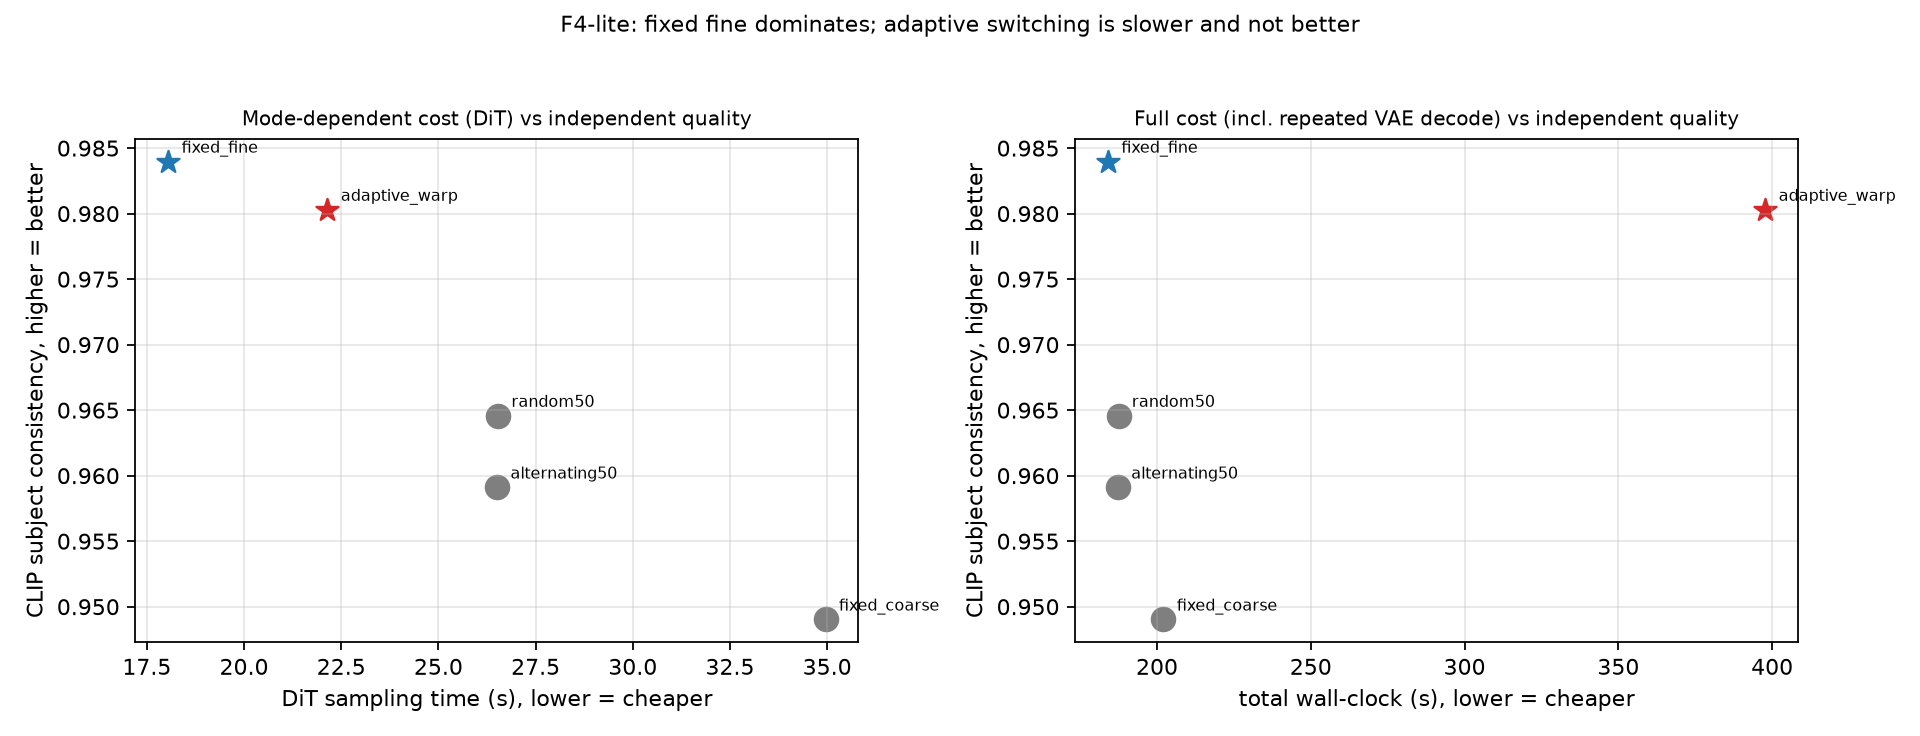
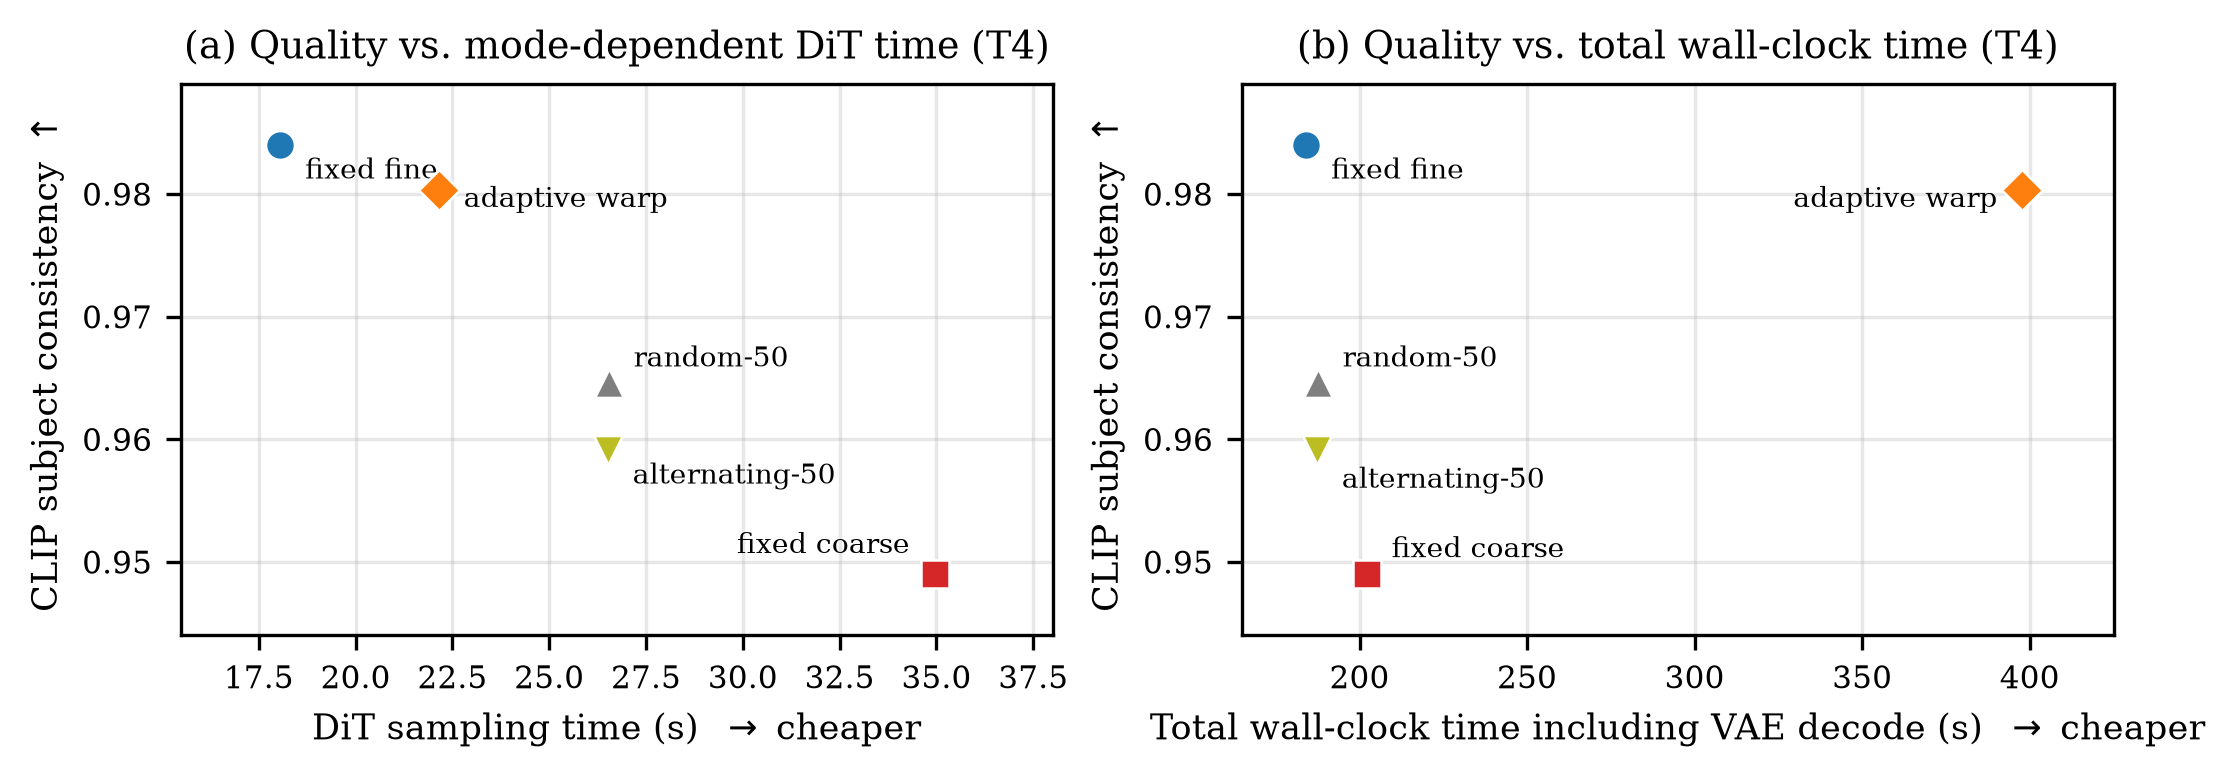
Use high-resolution figures in README; fix broken figure links

diff --git a/README.md b/README.md
@@ -10,7 +10,7 @@ Official code, locked protocols, calibration freezes, and audit artifacts for th
 
 **Links:**
 [GitHub repository](https://github.com/j1s4nn/jev-adaptive-granularity-WM) ·
-[Manuscript (PDF)](paper/Jev-Routed-Temporal-Granularity-with-Recovery-and-Hysteresis.pdf) ·
+[Manuscript (PDF)](mta_submission/main_v2.pdf) ·
 [DOI v1 (Zenodo)](https://doi.org/10.5281/zenodo.23395414) ·
 [DOI v2 (Zenodo)](https://doi.org/10.5281/zenodo.23984346) ·
 [Project page](https://j1s4nn.github.io/jev-adaptive-granularity-WM/) ·
@@ -103,7 +103,7 @@ For the one-step regimes used throughout (NFE 19 vs. 8.33), the break-even ratio
 
 For each segment, a feature state (prompt, BLIP caption of the pre-decision context frame, segment index, motion statistics) is sent to the **Jev** oracle, which returns typed difficulty, drift-risk, and motion-class outputs. The controller state (threshold, hysteresis band, recovery counter) maps these to an action in **{fine, coarse, hold}**, and the selected mode executes the next causal segment. Every decision is recorded with its generated frames, independent quality measures, timing, and switch-boundary cost; all measurements are prompt-paired, and the internal `c1-1` reference is diagnostic only.
 
-![System architecture](paper/figures/architecture.png)
+![System architecture](docs/assets/figures/architecture.png)
 
 Routing uses a two-threshold controller with a hysteresis band Λ around the operating point τ and a forced recovery window of R segments after a quality spike:
 
@@ -115,7 +115,7 @@ a_t =  fine         if  Ψ_t ≥ τ_high  or recovery active
 
 Thresholds are calibrated on a development split only. The Jev router uses a motion-class rule (static → hold, moderate → coarse, fast/scene_change → fine) with a difficulty gate (τ_Jev = 1.72).
 
-![Jev routing traces](paper/figures/fig_jev_routing.png)
+![Jev routing traces](docs/assets/figures/fig_jev_routing.png)
 
 *Per-segment decisions over eight T4 prompts (F = fine, C = coarse, H = hold). Traces are non-degenerate: static content is held, fast motion is routed to fine, moderate motion to coarse.*
 
@@ -127,7 +127,7 @@ Thresholds are calibrated on a development split only. The Jev router uses a mot
 
 Six-mode cost–quality sweep, T4 vs. A100-80GB. Fewer NFEs do not imply lower DiT time: on the T4 every coarse mode sits above and to the right of fine `c1-1` s1, while on the A100 the coarse family occupies a cheaper, less accurate frontier point.
 
-![Cost–quality Pareto on T4 and A100](paper/figures/fig_cost_pareto.png)
+![Cost–quality Pareto on T4 and A100](docs/assets/figures/fig_cost_pareto.png)
 
 | Mode | T4 DiT (s) | T4 NFE | T4 refL1 | A100 DiT (s) | A100 NFE | A100 refL1 |
 |---|---:|---:|---:|---:|---:|---:|
@@ -140,7 +140,7 @@ Six-mode cost–quality sweep, T4 vs. A100-80GB. Fewer NFEs do not imply lower D
 
 VAE decode falls from ≈156 s (T4) to ≈2.4 s (A100) and stops dominating the total. **The quality–cost trade-off exists on the A100 and is absent on the T4.**
 
-![Cost precondition across hardware](paper/figures/fig_hw_scaling.png)
+![Cost precondition across hardware](docs/assets/figures/fig_hw_scaling.png)
 
 *Rollout DiT latency (left) and the coarse/fine per-forward ratio against the 2.33 break-even point (right). The same model pair lies above break-even on the T4 and below it on the A100.*
 
@@ -157,7 +157,7 @@ VAE decode falls from ≈156 s (T4) to ≈2.4 s (A100) and stops dominating the 
 
 Held-out AUROC for predicting coarse-unsafe segments. The locked study scores 72 held-out cases (288 segments); the Jev audit uses 80 paired segments from 8 fresh prompts.
 
-![Signal discrimination](paper/figures/fig_auroc.png)
+![Signal discrimination](docs/assets/figures/fig_auroc.png)
 
 | Study | Signal | AUROC | 95% CI |
 |---|---|---:|---|
@@ -178,7 +178,7 @@ The preregistered hypothesis fails on locked data: the residual signal's held-ou
 
 Budgeted online policies on eight fresh T4 prompts (57 frames). With no real cost gap on the T4, fixed fine is best on both independent quality and cost; the adaptive warp policy gains only on the internal reference, costs **2.2×** the best fixed policy in total wall-clock, and makes **zero** within-video switches.
 
-![T4 online policy Pareto](paper/figures/f4lite_policy_pareto.png)
+![T4 online policy Pareto](docs/figures/f4lite_policy_pareto.png)
 
 | Policy | refL1 | DiT (s) | Total (s) | CLIP subj. | warp |
 |---|---:|---:|---:|---:|---:|
@@ -192,7 +192,7 @@ Budgeted online policies on eight fresh T4 prompts (57 frames). With no real cos
 
 Since the coarse mode is not cheaper on the T4, a genuinely cheap **hold** mode is added and routed with the motion-class rule. Routing "moderate" segments to coarse is counterproductive on this GPU, but holding static segments beats re-generating them.
 
-![Hold-mode study on the T4](paper/figures/jev_hold_mode.png)
+![Hold-mode study on the T4](docs/figures/jev_hold_mode.png)
 
 | Policy | hold | fine | coarse | refL1 | DiT (s) | Total (s) |
 |---|---:|---:|---:|---:|---:|---:|
@@ -209,7 +209,7 @@ Since the coarse mode is not cheaper on the T4, a genuinely cheap **hold** mode 
 
 On the A100 the cost gap is real, so the online test is informative. The adaptive warp policy passes the *internal* gate but the independent endpoint reverses the verdict, and its extra VAE decodes push total wall-clock above fixed fine. The Jev policies, queried in-loop, behave differently.
 
-![A100 online policies](paper/figures/fig_a100_online.png)
+![A100 online policies](docs/figures/fig_a100_online.png)
 
 | Policy | refL1 | DiT (s) | Total (s) | CLIP subj. | warp |
 |---|---:|---:|---:|---:|---:|
@@ -228,7 +228,7 @@ A second hazard appears on the A100 split: the internal reference flatters the *
 
 Switches are per rollout; AUH is area-under-horizon refL1 regret; seam/interior are adjacent-frame L₁ at switch boundaries and interior positions.
 
-![Controller ablation](paper/figures/fig_rq3.png)
+![Controller ablation](docs/assets/figures/fig_rq3.png)
 
 | GPU | Controller | switches | AUH | terminal | seam / interior |
 |---|---|---:|---:|---:|---|
@@ -247,7 +247,7 @@ Recovery plus hysteresis reduces switching without worsening regret: **0.50 → 
 
 The fine-versus-coarse benefit is monotone in the Jev difficulty signal on the T4 (Spearman ρ = −0.517) but non-monotone for the hand-crafted warp signal (ρ = −0.099), and flat on the A100 diagnostic split (ρ = +0.059, AUROC 0.451). The earlier non-monotonicity was a *signal-quality artifact*, not a property of the modes.
 
-![Fine-versus-coarse gap across signal terciles](paper/figures/fig_rq4.png)
+![Fine-versus-coarse gap across signal terciles](docs/figures/fig_rq4.png)
 
 | Split | Signal | Spearman ρ | Reading |
 |---|---|---:|---|
@@ -259,7 +259,7 @@ The fine-versus-coarse benefit is monotone in the Jev difficulty signal on the T
 
 Prompt-paired bootstrap differences against fixed fine (24 fresh A100 prompts, 10,000 resamples, 95% CIs). Significant intervals are bold.
 
-![Confirmatory bootstrap](paper/figures/fig_phase3_ci.png)
+![Confirmatory bootstrap](docs/assets/figures/fig_phase3_ci.png)
 
 | Policy | ΔCLIP subj. cons. | ΔCLIP text align. | ΔDiT (s) | ΔTotal (s) |
 |---|---|---|---|---|
@@ -271,7 +271,7 @@ The honest reading is a trade-off: Jev-single saves DiT and total time — both 
 
 ### Qualitative evidence
 
-![Qualitative grid](paper/figures/qualitative_grid.png)
+![Qualitative grid](docs/assets/figures/qualitative_grid.png)
 
 Representative decoded frames from matched 57-frame T4 rollouts for four prompts. For a fast-motion human-action prompt the fixed coarse rollout drifts to a different person over a different background, while fixed fine and the Jev-routed rollout preserve the subject. These images are qualitative context only; every claim uses the numeric audits and the independent endpoints.
 
@@ -317,21 +317,16 @@ The small JSON/JSONL audit outputs behind every table and figure in the manuscri
 ├── CITATION.cff            Citation metadata
 ├── requirements.txt        Python dependencies
 ├── proposal.tex            Research specification
-├── paper/                  Manuscript source, bibliography, figures, compiled PDF
-│   ├── main_updated2.tex
-│   ├── references_ieee.bib
-│   ├── figures/            All manuscript figures (PDF + PNG)
-│   └── Jev-Routed-Temporal-Granularity-with-Recovery-and-Hysteresis.pdf
-├── docs/                   Protocols, audit notes, and the project Pages site
+├── mta_submission/         Manuscript (main_v2.pdf)
+├── docs/                   Protocols, audit notes, figures, and the project Pages site
 │   ├── A100_PROTOCOL.md
 │   ├── F1_AUDIT.md
 │   ├── F2_PROTOCOL.md
-│   ├── PAPER.md
+│   ├── figures/            Manuscript figures (PNG)
 │   └── index.html          Static landing page (SEO)
 ├── config/                 Locked manifests and calibration freezes
 ├── src/                    Core packages (inference, controller, uncertainty, evaluation)
 ├── scripts/                Audit and figure-generation scripts
-├── jobs/                   Reproducible job definitions (Kaggle kernel sources)
 ├── colab/                  A100 Colab arm (timing, sweep, online, RQ3)
 └── results/                Small JSON/JSONL audit artifacts (no media; see above)
 ```
